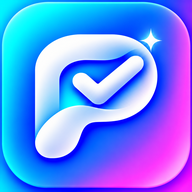
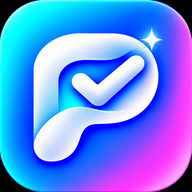
feat(assets): 앱 아이콘 원본 v5 교체 (passok_icon_1024)
Generated with [Devin](https://devin.ai)

diff --git a/docs/dev/CHANGES.md b/docs/dev/CHANGES.md
@@ -1,5 +1,9 @@
 # 코드 리뷰 수정 내역 (1~12 순차수정)
 
+## 2026-11-03 feat(assets): 앱 아이콘 원본 v5 교체 (passok_icon_1024)
+
+- 신규 원본으로 마스터 교체 — 512·192·180·favicon·maskable 전부 재생성, 루트+시험별 manifest 재스탬프
+
 ## 2026-11-03 fix(landing): 모바일 뷰포트 오버플로우 — 그리드·폼 고정폭 min() 교정
 
 - `landing.css`의 `minmax(Npx, 1fr)` 3곳(exam 260·feature 200·demo 300)과 `.demo-plan-form label` `min-width: 140px`이 좁은 뷰포트를 강제 확장해 모바일에서 페이지 전체가 축소 표시됨 — `min(Npx, 100%)` 패턴으로 교정해 단일 컬럼 유지
